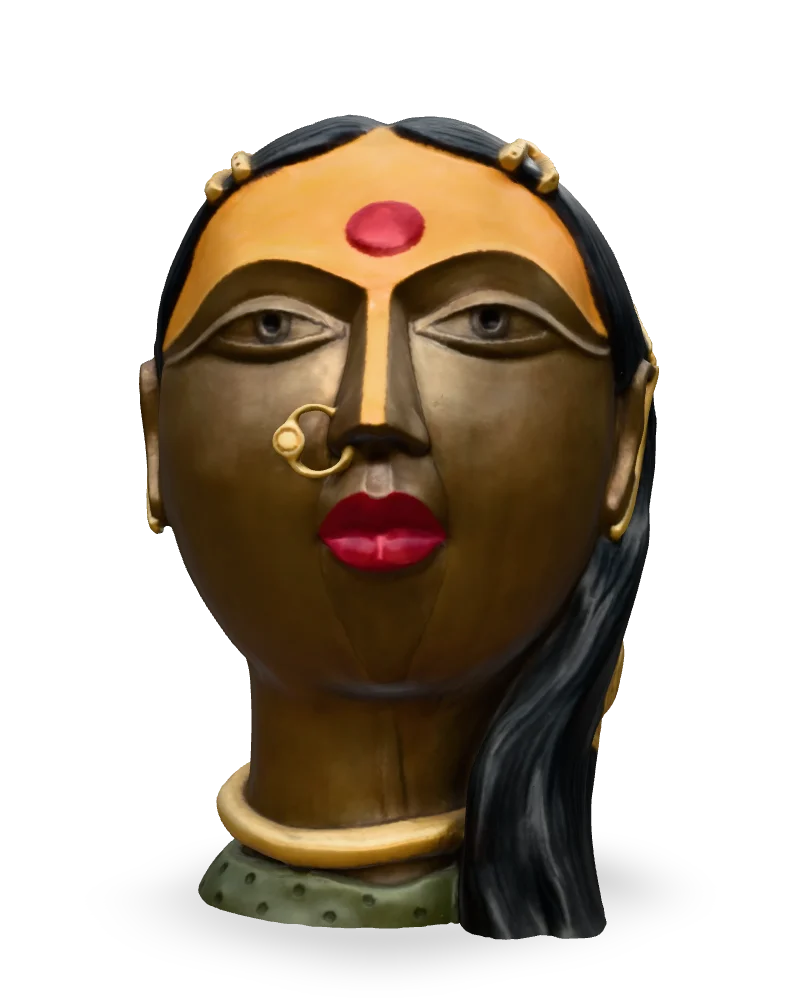
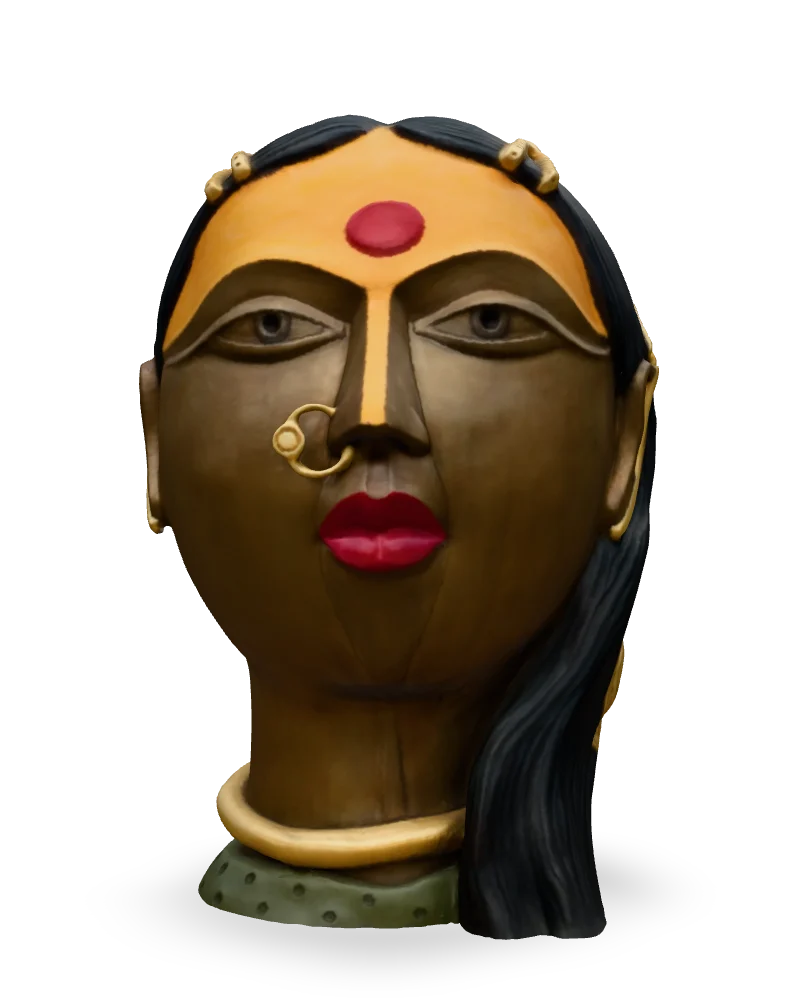
Calmer Long-Hair head, brighter Lady
Long-Hair head: less metal and gloss (0.2, 1.8, reflections 0.6), it still glared. Lady: light 1.8, reflections 2.5 and side lights, its dark patina read as dull black. Thumbnails remade; progress notes updated.

diff --git a/lib/sculptures.ts b/lib/sculptures.ts
@@ -102,7 +102,8 @@ export const sculptures: Sculpture[] = [
     title: "Lady",
     description: "",
     modelUrl: "/sculptures/Lady.glb",
-    thumbnail: "/thumbnails/thota-lady.webp?v=2",
+    look: { light: 1.8, reflections: 2.5, sideLights: 1 },
+    thumbnail: "/thumbnails/thota-lady.webp?v=3",
     artistSlug: "thota-vaikuntam",
     featured: true,
     material: "",
@@ -699,9 +700,9 @@ export const sculptures: Sculpture[] = [
     title: "Bronze Female Head with Long Hair",
     description: "",
     artistSlug: "thota-vaikuntam",
-    thumbnail: "/thumbnails/thota-bronze-female-head-with-long-hair.webp?v=3",
+    thumbnail: "/thumbnails/thota-bronze-female-head-with-long-hair.webp?v=4",
     modelUrl: "/sculptures/thota-untitled-head-with-nose-ring.glb",
-    look: { metalness: 0.5, roughness: 1.3 },
+    look: { metalness: 0.2, roughness: 1.8, reflections: 0.6 },
     material: "Bronze",
     year: "",
     dimensions: "58 × 58 × 47 inches",

diff --git a/docs/lighting-progress.md b/docs/lighting-progress.md
@@ -34,9 +34,11 @@ User's taste: **matte and natural, not shiny**. The user judges each work by eye
 | … brighter | same, `light: 1.3` | Dotted Saree, Man with Mridangam |
 | Blue Saree | `{ metalness: 0.2, roughness: 1.6, reflections: 1.2, light: 1.6 }` | dark bronze skin needed lifting |
 | Blue Turban | `{ metalness: 0.15, roughness: 1.3, reflections: 1.2, light: 1.3, specular: 0.6, sideLights: 1 }` | black face showed no form |
-| Bronze | `{ metalness: 0.5, roughness: 1.3 }` | Krishna, Dancing Shiva, both Shah heads, Tirthankar, Levitation, Parekh, Bronze Long-Hair head |
+| Bronze | `{ metalness: 0.5, roughness: 1.3 }` | Krishna, Dancing Shiva, both Shah heads, Tirthankar, Levitation, Parekh |
+| Bronze Long-Hair head | `{ metalness: 0.2, roughness: 1.8, reflections: 0.6 }` | the bronze setting still glared on its face |
+| Lady | `{ light: 1.8, reflections: 2.5, sideLights: 1 }` | dark patina read as dull black |
 | Glossy non-metal | `{ roughness: 2, reflections: 0.6 }` / `{ roughness: 1.8, reflections: 0.7 }` | Ghosh / Matar |
-| Untouched | — | Lady, Pandit, Seated Bandsman, Tailor, Cat, Man from Moon |
+| Untouched | — | Pandit, Seated Bandsman, Tailor, Cat, Man from Moon |
 
 ## Changing a work
 1. Dev server: `npx next dev --webpack -p 3000` (Turbopack crashes on this machine).
